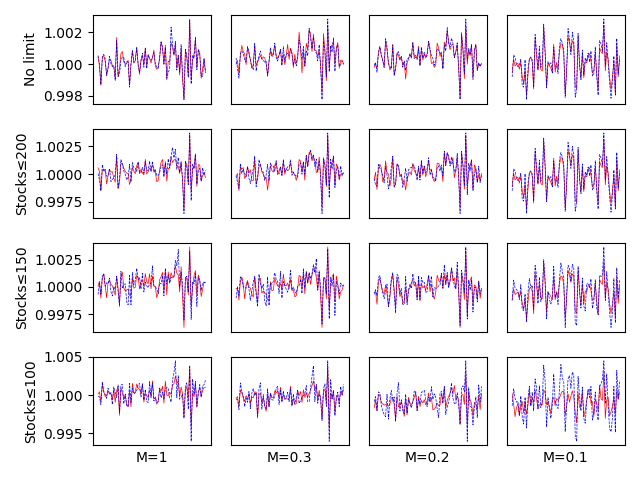
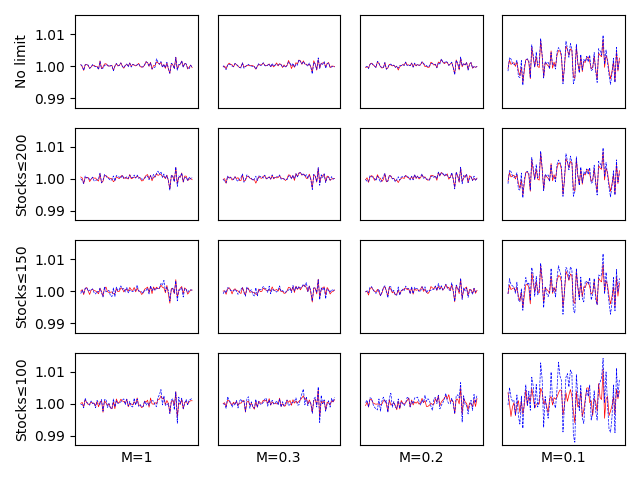
Save plot.

diff --git a/tests/test_driver_index_tracking.py b/tests/test_driver_index_tracking.py
@@ -132,7 +132,7 @@ def test_driver_index_track_sp500_aren_plot_many():
     else:
         with open(filename, 'rb') as handle:
             parameters_with_data = pickle.load(handle)
-    # plt.rcParams["figure.figsize"] = (7, 10)
+    plt.rcParams["figure.figsize"] = (8, 10)
     fig = plt.figure()
     # parameters_with_data = parameters_with_data[0:4] #+ parameters_with_data[-1:]
     i = 1
@@ -141,12 +141,13 @@ def test_driver_index_track_sp500_aren_plot_many():
         # plt.subplot(1, 4, i)
         percent_money_on_each_stock = parameter.M
         max_feature_selected = parameter.Stocks
-        is_plot_acc_over_pred = False
+        is_plot_acc_over_pred = True
         if is_plot_acc_over_pred:
             x_test, y_test_pred, y_test_real = parameter.Obj["bootstrap"]
             plt.plot(x_test, y_test_real / y_test_pred, 'r-', linewidth=0.5)
             x_test, y_test_pred, y_test_real = parameter.Obj["aren"]
             plt.plot(x_test, y_test_real / y_test_pred, 'b--', linewidth=0.5)
+            plt.ylim(0.987, 1.016)
         else:
             x_test, y_test_pred, y_test_real = parameter.Obj["bootstrap"]
             plt.plot(x_test, y_test_real, 'g:', linewidth=0.5)
